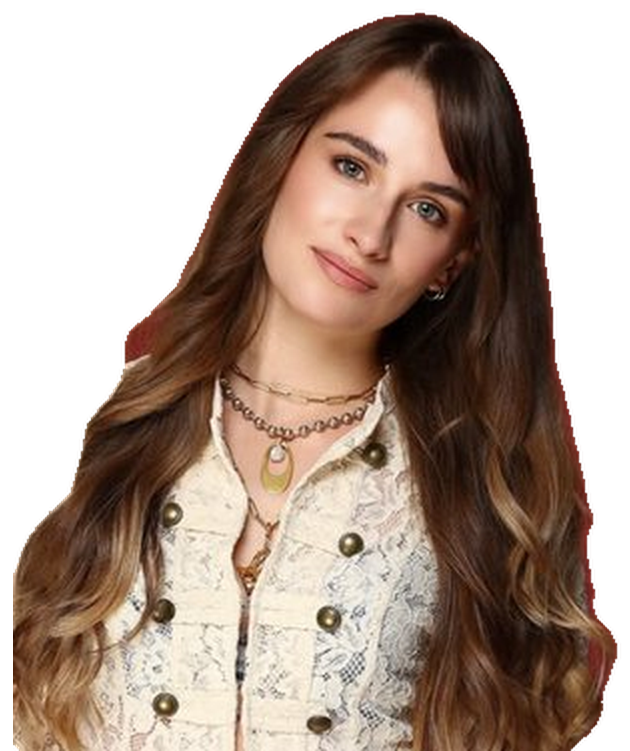
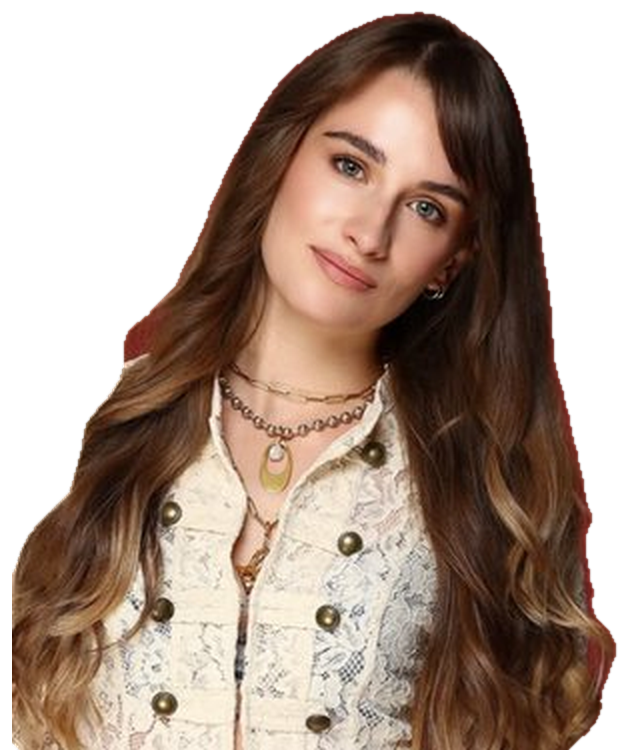
Covers V2 : plus sobres, détourages nettoyés, photos calées en bas, élèves vérifiés dans l'appli
Claude-Session: https://claude.ai/code/session_0156Lzyyocaj5mSMqKv9kGpd

diff --git a/templates/covers-photos.html b/templates/covers-photos.html
@@ -43,72 +43,60 @@ const slides={};
 const mk=(id,cls,bg,html)=>{const d=document.createElement('div');d.className='s '+cls;d.id=id;d.style.setProperty('--bg',bg);d.innerHTML=PAPER+html;document.getElementById('all').appendChild(d)};
 const SW=`<div class="swipe">glisse →</div>`;
 
-/* Photos d'élèves détourées : candidats/<prenom sans accent>.png (source : site de l'appli /candidates/<prenom>.jpg) */
-const P=(n,x,y,w,rot,extra)=>`<img src="candidats/${n}.png" style="position:absolute;left:${x}px;top:${y}px;width:${w}px;transform:rotate(${rot||0}deg);filter:drop-shadow(0 16px 20px rgba(60,40,90,.28));${extra||''}">`;
-const ME=(f,x,y,w,rot)=>`<img src="${f}" style="position:absolute;left:${x}px;top:${y}px;width:${w}px;transform:rotate(${rot||0}deg);filter:drop-shadow(0 16px 20px rgba(60,40,90,.28))">`;
+/* Covers avec photos (V2, sobre) : une photo détourée calée en bas, contre le bord, 1 ou 2 emojis max.
+   Élèves : candidats/<prénom sans accent>.png (source : site de l'appli /candidates/<prénom>.jpg). */
+const PB=(f,side,off,w,extra)=>`<img src="${f}" style="position:absolute;bottom:0;${side}:${off}px;width:${w}px;filter:drop-shadow(0 10px 18px rgba(60,40,90,.22));${extra||''}">`;
+const C=n=>`candidats/${n}.png`;
 const EM=(e,x,y,s,r)=>`<div class="em" style="left:${x}px;top:${y}px;font-size:${s}px;transform:rotate(${r}deg)">${e}</div>`;
-const LBL=(t,x,y,r,bg)=>`<div style="position:absolute;left:${x}px;top:${y}px;transform:rotate(${r}deg);background:${bg||'#fff'};border-radius:18px;padding:8px 22px;font-weight:800;font-size:40px;box-shadow:0 8px 18px rgba(90,40,50,.18)">${t}</div>`;
-const YH=t=>`<span class="hl" style="background:linear-gradient(transparent 12%,#FFF1B4 12%,#FFF1B4 92%,transparent 92%)">${t}</span>`;
+const NAME=(t,side,off,bottom,r)=>`<div style="position:absolute;${side}:${off}px;bottom:${bottom}px;transform:rotate(${r}deg);background:#fff;border-radius:16px;padding:6px 20px;font-weight:800;font-size:36px;box-shadow:0 6px 14px rgba(90,40,50,.16)">${t}</div>`;
+const SWC=`<div class="swipe" style="left:50%;transform:translateX(-50%)">glisse →</div>`;
 
-/* 1. TikTok ép.1 (mar 3/11) */
-mk('ep1','','#FFD7E5',TORN(30,150,1020,560,'#fff',-1.2,71,'')+TORN(0,760,1080,600,'#D4E5FF',0,73,'')+`<div class="tw" style="left:0;top:1060px;width:1080px;height:290px"><div class="dots" style="clip-path:${tornPoly(1080,290,9)};background-color:#FFF1B4"></div></div>`+LOGO.replace('class="logo"','class="logo" style="top:62px"')+STAR(890,40,150,14)+`
-<div class="tape pk" style="left:90px;top:128px;transform:rotate(-6deg)"></div>
-<div style="position:absolute;left:80px;top:190px"><span class="tag">épisode 1</span></div>
-<div class="hand" style="position:absolute;left:84px;top:280px;font-size:48px;color:var(--mag)">je code une appli pour la Star Ac'</div>
-<h1 style="position:absolute;left:80px;top:370px;width:930px;font-size:104px;line-height:1.08">${YH('229 joueurs')}<br>${YH('plus tard…')}</h1>`
-+ME('moi_selfie.png',560,610,470,5)
-+EM('💻',70,800,170,-10)+EM('📱',330,860,120,12)+EM('✨',420,790,90,0)
-+`<div class="bubble them" style="position:absolute;left:58px;top:1020px;width:500px;transform:rotate(-2deg);font-size:34px">tout est parti d'une vidéo, un soir d'octobre</div>`+SW+FOOT(1,6));
+/* 1. TikTok ép.1 (mar 3/11) : même cover validée + ma photo en bas à droite */
+mk('ep1','grid','var(--pink)',LOGO+STAR(880,60,160,14)+SPARK(990,430,44)+`
+<div style="position:absolute;left:58px;top:200px"><span class="tag">épisode 1</span></div>
+<div class="hand" style="position:absolute;left:58px;top:290px;font-size:46px;color:var(--mag)">je code une appli pour la Star Ac'</div>
+<h1 style="position:absolute;left:58px;top:390px;width:960px;font-size:104px"><span class="hl">229 joueurs</span><br><span class="hl">plus tard…</span></h1>
+<div class="bubble them" style="position:absolute;left:58px;top:760px;width:560px;transform:rotate(-1deg)">tout est parti d'une vidéo, un soir d'octobre 📱</div>
+<div class="typing" style="position:absolute;left:58px;top:1000px"><b></b><b></b><b></b></div>`
++PB('moi_selfie.png','right',0,430)+SW+FOOT(1,6));
 
-/* 2. Reel/TikTok nommés prime 5 (mer 4/11) — modèle : remplacer N par le vrai top 3 */
-const N=[['noemie','Noémie','64 %'],['cameron','Cameron','51 %'],['zoe','Zoé','38 %']];
-mk('nom5','','#EFE6FF',TORN(30,140,1020,470,'#fff',1,81,'')+TORN(0,640,1080,710,'#FFD7E5',0,83,'')+`<div class="tw" style="left:0;top:1120px;width:1080px;height:230px"><div class="dots" style="clip-path:${tornPoly(1080,230,3)};background-color:#FFF1B4"></div></div>`+LOGO.replace('class="logo"','class="logo" style="top:62px"')+STAR(890,40,140,-10)+`
-<div class="tape bl" style="left:820px;top:120px;transform:rotate(6deg)"></div>
-<div style="position:absolute;left:80px;top:185px"><span class="tag">prime 5 · les nommés</span></div>
-<h1 style="position:absolute;left:80px;top:285px;width:930px;font-size:92px;line-height:1.08">${YH('Qui les joueurs')}<br>${YH('voient nommés ?')}</h1>`
-+EM('🔮',880,500,110,10)
-+P(N[1][0],20,700,370,-5)+P(N[2][0],700,700,370,5)+P(N[0][0],340,640,420,0)
-+LBL('🥇 '+N[0][1]+' · '+N[0][2],350,1190,-2,'#fff')+LBL(N[1][1]+' · '+N[1][2],40,1100,-5,'#fff')+LBL(N[2][1]+' · '+N[2][2],740,1100,4,'#fff')
-+EM('😬',60,620,110,-12)+EM('👀',930,640,100,10)+MOD);
+/* 2. Nommés prime 5 (Reel + TikTok) : MODÈLE. Les photos des 3 vrais nommés-par-les-joueurs
+   s'ajoutent quand la deadline est passée (remplir N, sinon aucune photo n'est affichée). */
+const N=[]; // ex. après la deadline : [['noemie','Noémie','64 %'],['cameron','Cameron','51 %'],['zoe','Zoé','38 %']]
+const ROW=(r,i,top)=>`<div style="position:absolute;left:58px;right:58px;top:${top+i*124}px;height:108px;background:#fff;border-radius:30px;display:flex;align-items:center;gap:22px;padding:0 34px 0 ${r[3]?'14px':'34px'};box-shadow:0 8px 20px rgba(120,60,90,.12)">${r[3]?`<img src="candidats/${r[3]}.png" style="width:84px;height:84px;border-radius:50%;object-fit:cover;object-position:top;background:#FFF1B4;border:4px solid #FFF1B4">`:`<div style="width:70px;height:70px;border-radius:50%;display:grid;place-items:center;font-weight:800;font-size:34px;background:#FFF1B4">${r[0]}</div>`}<div style="font-weight:800;font-size:42px">${r[1]}</div><div style="margin-left:auto;font-weight:800;font-size:44px;color:var(--mag)">${r[2]}</div></div>`;
+const NR=N.length?N.map((x,i)=>[i+1,x[1],x[2],x[0]]):[[1,'Prénom 1','64 %'],[2,'Prénom 2','51 %'],[3,'Prénom 3','38 %']];
+mk('nom5','grid','var(--pink)',LOGO+STAR(880,60,140,12)+`
+<div style="position:absolute;left:58px;top:170px"><span class="tag">prime 5 · les nommés</span></div>
+<h1 style="position:absolute;left:58px;top:270px;width:960px;font-size:96px;line-height:1.1"><span class="hl">Qui les joueurs</span><br><span class="hl">voient nommés ?</span></h1>`
++EM('🔮',880,420,100,10)
++`<div class="cv" style="position:absolute;left:66px;top:560px;font-size:56px;transform:rotate(-2deg)">90 joueurs ont voté, voici leur top 3 👇</div>`
++NR.map((r,i)=>ROW(r,i,680)).join('')
++`<div class="bubble me" style="position:absolute;right:58px;top:1080px;width:600px">tu es d'accord avec eux ?</div>`+MOD);
 
-/* 3. Carrousel chouchou (jeu 5/11) — vrais chiffres au 1/11 */
-mk('chou','','#FFF1B4',TORN(30,140,1020,440,'#fff',-1,91,'')+TORN(0,610,1080,740,'#D4E5FF',0,93,'')+LOGO.replace('class="logo"','class="logo" style="top:62px"')+STAR(890,40,140,12)+`
-<div class="tape pk" style="left:90px;top:120px;transform:rotate(-6deg)"></div>
-<div style="position:absolute;left:80px;top:185px"><span class="tag">le chouchou des joueurs</span></div>
-<h1 style="position:absolute;left:80px;top:280px;width:700px;font-size:120px;line-height:1.02">${YH('À 1 voix')}<br>${YH('près')}</h1>`
-+EM('😱',560,390,150,8)
-+P('noemie',10,660,470,-4)+P('cameron',600,660,470,4)
-+`<div style="position:absolute;left:470px;top:820px;width:140px;height:140px;border-radius:50%;background:var(--mag);color:#fff;display:grid;place-items:center;font-weight:800;font-size:56px;transform:rotate(-8deg);box-shadow:0 10px 22px rgba(90,40,50,.25);border:6px solid #fff">VS</div>`
-+LBL('💛 Noémie · 42 voix',40,1150,-3)+LBL('💙 Cameron · 41 voix',580,1150,3)
-+EM('💛',60,640,100,-12)+EM('💙',940,640,100,12)+SW+FOOT(1,3));
+/* 3. Chouchou à 1 voix près (jeu 5/11) — chiffres vérifiés dans l'appli le 2/11 */
+mk('chou','grid','var(--pink)',LOGO+STAR(880,60,140,12)+`
+<div style="position:absolute;left:58px;top:170px"><span class="tag">le chouchou des joueurs</span></div>
+<h1 style="position:absolute;left:58px;top:270px;width:960px;font-size:120px;line-height:1.05"><span class="hl">À 1 voix</span><br><span class="hl">près 😱</span></h1>
+<div class="cv" style="position:absolute;left:66px;top:575px;font-size:54px;transform:rotate(-2deg)">173 joueurs ont choisi leur chouchou dans l'appli</div>
+<div class="w" style="position:absolute;left:58px;top:690px;width:440px;background:#fff;border-radius:40px;padding:26px 36px;box-shadow:0 8px 22px rgba(120,60,90,.10)"><div style="font-weight:800;font-size:110px;line-height:1;color:var(--mag)">42</div><div style="font-family:H;font-size:40px;margin-top:8px">voix pour Noémie 💛</div></div>
+<div class="w" style="position:absolute;right:58px;top:690px;width:440px;background:#fff;border-radius:40px;padding:26px 36px;box-shadow:0 8px 22px rgba(120,60,90,.10)"><div style="font-weight:800;font-size:110px;line-height:1;color:var(--mag)">41</div><div style="font-family:H;font-size:40px;margin-top:8px">voix pour Cameron 💙</div></div>`
++PB(C('noemie'),'left',0,330)+PB(C('cameron'),'right',0,330)+SWC+FOOT(1,3));
 
-/* 4. TikTok club des 11 (ven 6/11) */
-mk('club','','#D9F4E7',TORN(30,140,1020,520,'#fff',1,101,'')+TORN(0,700,1080,650,'#FFF1B4',0,103,'')+LOGO.replace('class="logo"','class="logo" style="top:62px"')+STAR(890,40,140,-12)+`
-<div class="tape bl" style="left:780px;top:120px;transform:rotate(6deg)"></div>
-<div style="position:absolute;left:80px;top:185px"><span class="tag">prime 4 · le club des 11</span></div>
-<h1 style="position:absolute;left:80px;top:280px;width:930px;font-size:110px;line-height:1.05">${YH('11 joueurs')}<br>${YH('sur 90 👑')}</h1>
-<div class="cv" style="position:absolute;left:86px;top:540px;font-size:54px;transform:rotate(-2deg)">ont trouvé les 3 nommés du prime 4</div>`
-+P('antoine',10,740,360,-5)+P('ydriss',710,740,360,5)+P('maud',345,700,390,0)
-+LBL('Antoine',70,1130,-5)+LBL('Maud',440,1150,-1)+LBL('Ydriss',790,1130,5)
-+EM('👑',420,610,120,-8)+EM('🎯',60,650,100,-10)+EM('✅',930,660,90,10)+SW+FOOT(1,3));
+/* 4. Club des 11 (ven 6/11) — Antoine, Maud, Ydriss = les 3 vrais nommés du prime 4 (vérifié) */
+const CLUB=(id,line)=>mk(id,'grid','var(--yellow)',LOGO+STAR(880,60,140,-10)+`
+<div style="position:absolute;left:58px;top:170px"><span class="tag">prime 4 · le club des 11</span></div>
+<h1 style="position:absolute;left:58px;top:270px;width:960px;font-size:120px;line-height:1.05"><span class="hl">11 joueurs</span><br><span class="hl">sur 90 👑</span></h1>
+<div class="cv" style="position:absolute;left:66px;top:575px;font-size:52px;line-height:1.15;transform:rotate(-2deg);width:950px">${line}</div>`
++PB(C('antoine'),'left',0,380)+PB(C('ydriss'),'right',0,380)+PB(C('maud'),'left',320,430)
++NAME('Antoine','left',60,40,-4)+NAME('Maud','left',465,30,0)+NAME('Ydriss','right',70,40,4));
+CLUB('club','ont trouvé les 3 nommés du prime 4');
+CLUB('clubp','cathycrtl, Grevinou, Julastar + 8 autres<br>ont trouvé les 3 nommés du prime 4');
 
-/* 4b. même cover, version pseudos */
-mk('clubp','','#D9F4E7',TORN(30,140,1020,520,'#fff',1,101,'')+TORN(0,700,1080,650,'#FFF1B4',0,103,'')+LOGO.replace('class="logo"','class="logo" style="top:62px"')+STAR(890,40,140,-12)+`
-<div class="tape bl" style="left:780px;top:120px;transform:rotate(6deg)"></div>
-<div style="position:absolute;left:80px;top:185px"><span class="tag">prime 4 · le club des 11</span></div>
-<h1 style="position:absolute;left:80px;top:280px;width:930px;font-size:110px;line-height:1.05">${YH('11 joueurs')}<br>${YH('sur 90 👑')}</h1>
-<div class="cv" style="position:absolute;left:86px;top:530px;font-size:46px;line-height:1.1;transform:rotate(-2deg);width:900px">cathycrtl, Grevinou, Julastar + 8 autres<br>ont trouvé les 3 nommés du prime 4</div>`
-+P('antoine',10,740,360,-5)+P('ydriss',710,740,360,5)+P('maud',345,700,390,0)
-+LBL('Antoine',70,1130,-5)+LBL('Maud',440,1150,-1)+LBL('Ydriss',790,1130,5)
-+EM('🎯',60,650,100,-10)+EM('✅',930,660,90,10)+SW+FOOT(1,3));
-
-/* 5. Team de la semaine (dim 8/11) — modèle */
-mk('team','','#D4E5FF',TORN(30,140,1020,470,'#fff',-1,111,'')+TORN(0,640,1080,710,'#D9F4E7',0,113,'')+`<div class="tw" style="left:0;top:1110px;width:1080px;height:240px"><div class="dots" style="clip-path:${tornPoly(1080,240,7)};background-color:#FFD7E5"></div></div>`+LOGO.replace('class="logo"','class="logo" style="top:62px"')+STAR(890,40,140,10)+`
-<div class="tape pk" style="left:90px;top:120px;transform:rotate(-6deg)"></div>
-<div style="position:absolute;left:80px;top:185px"><span class="tag">la team de la semaine</span></div>
-<h1 style="position:absolute;left:80px;top:285px;width:930px;font-size:104px;line-height:1.05">${YH('🔥 NOM DE')}<br>${YH('LA TEAM')}</h1>`
-+ME('moi_top.png',600,560,460,4)
-+`<div class="widget" style="left:58px;top:720px;width:540px;transform:rotate(-2deg)"><div class="big" style="color:var(--mag)">12e → 6e</div><div class="lab">au classement des teams après le prime 5</div></div>`
-+EM('🏆',80,1000,140,-10)+EM('👯',300,1040,120,8)+EM('🚀',470,560,100,10)
-+`<div class="bubble me" style="position:absolute;left:58px;top:1180px;width:520px;background:var(--mag);color:#fff;transform:rotate(-2deg);font-size:36px">tag ta team en commentaire 👇</div>`+MOD);
+/* 5. Team de la semaine (dim 8/11) : MODÈLE + ma photo en bas à droite */
+mk('team','grid','var(--mint)',LOGO+STAR(880,60,140,10)+`
+<div style="position:absolute;left:58px;top:170px"><span class="tag">la team de la semaine</span></div>
+<h1 style="position:absolute;left:58px;top:270px;width:960px;font-size:110px;line-height:1.05"><span class="hl">🔥 NOM DE</span><br><span class="hl">LA TEAM</span></h1>
+<div style="position:absolute;left:58px;top:600px;width:560px;background:#fff;border-radius:40px;padding:30px 38px;box-shadow:0 8px 22px rgba(120,60,90,.10)"><div style="font-weight:800;font-size:110px;line-height:1;color:var(--mag)">12e → 6e</div><div style="font-family:H;font-size:40px;margin-top:10px">au classement des teams après le prime 5</div></div>
+<div class="bubble me" style="position:absolute;left:58px;top:960px;width:500px">tag ta team en commentaire 👇</div>`
++PB('moi_top.png','right',0,470)+MOD);
 </script></body></html>
